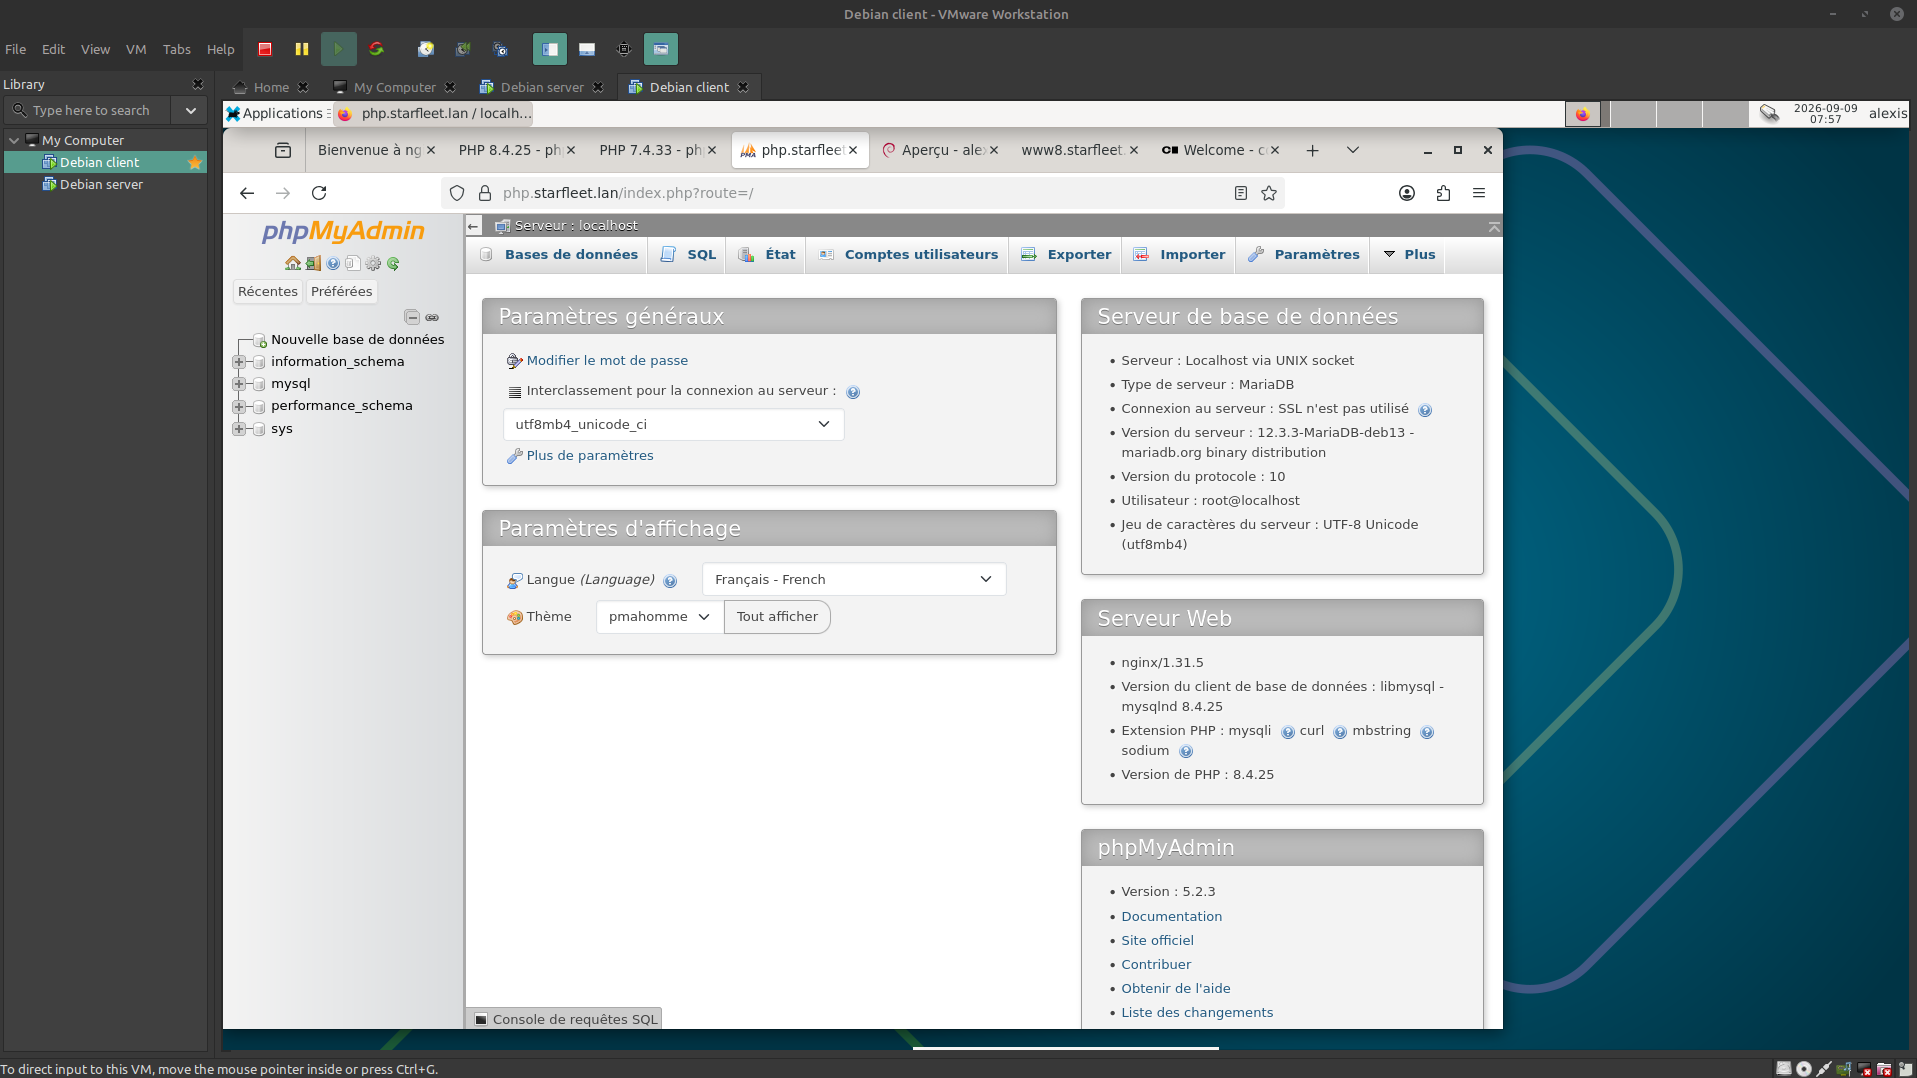
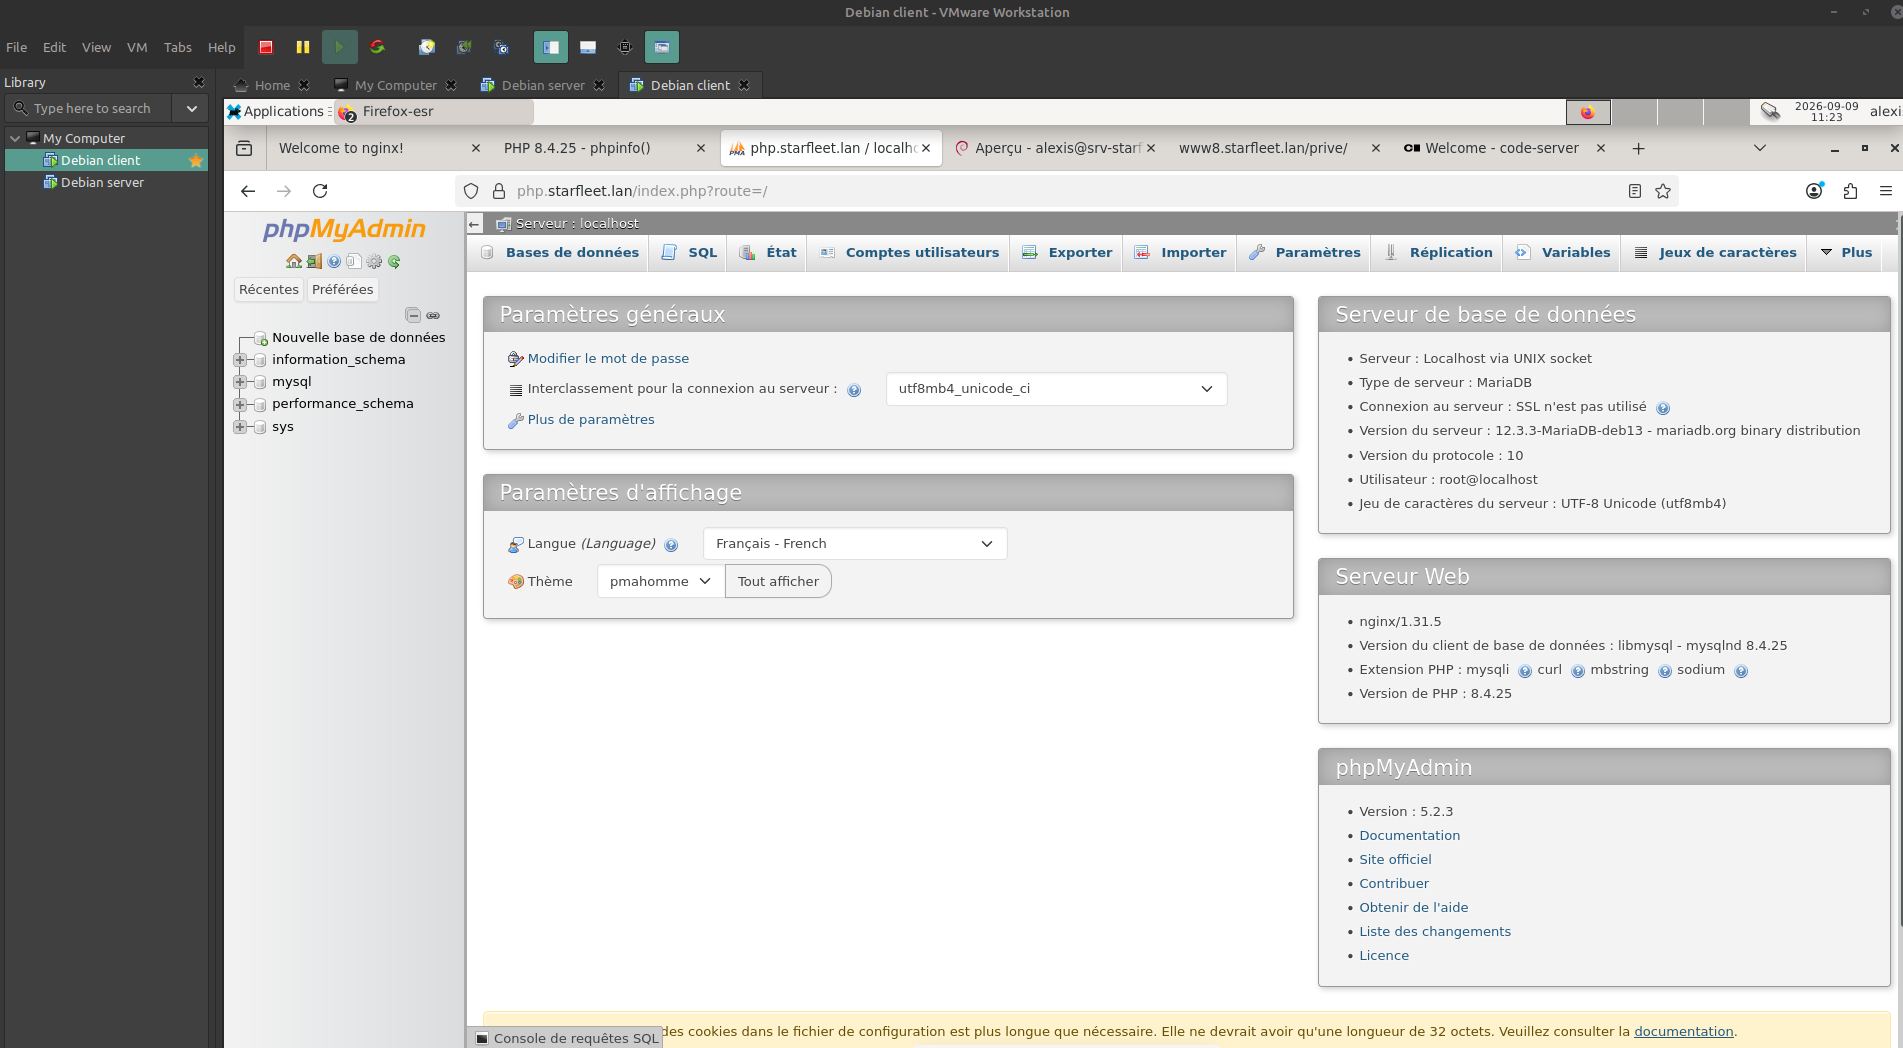
Ajout documentation illustree + configs + script

diff --git a/docs/02-installation.md b/docs/02-installation.md
@@ -29,6 +29,8 @@ VMware jusqu'aux services. Toutes les commandes serveur sont exécutées en
 - Tasksel serveur : décocher l'environnement de bureau **et** « serveur web » (Apache), ne garder que **SSH** + **utilitaires usuels**.
 - Tasksel client : cocher **Xfce** + SSH.
 
+![Conformité : aucun compte sudo](images/no-sudo.png)
+
 ---
 
 ## 2. Configuration réseau du serveur
@@ -71,6 +73,8 @@ echo "nameserver 127.0.0.1" > /etc/resolv.conf
 chattr +i /etc/resolv.conf     # empeche l'ecrasement au reboot
 ```
 
+![Interfaces réseau du serveur](images/reseau-interfaces.png)
+
 ---
 
 ## 3. DNS (bind9)
@@ -96,6 +100,8 @@ systemctl restart named
 
 Tester : `dig @10.0.0.1 www8.starfleet.lan +short` doit renvoyer `10.0.0.1`.
 
+![Résolution DNS directe et inverse](images/dns.png)
+
 ---
 
 ## 4. DHCP (isc-dhcp-server)
@@ -111,6 +117,8 @@ apt install -y isc-dhcp-server
 systemctl restart isc-dhcp-server
 ```
 
+![Le client reçoit son bail DHCP automatiquement](images/dhcp-client.png)
+
 ---
 
 ## 5. Pare-feu (nftables)
@@ -124,6 +132,8 @@ systemctl enable --now nftables
 
 > Toujours garder une console VMware ouverte lors du passage en `policy drop`,
 > et s'assurer que la règle SSH (port 22) est présente avant de recharger.
+
+![Règles nftables — politique drop + NAT](images/pare-feu.png)
 
 ---
 
@@ -156,6 +166,12 @@ chmod 600 /etc/ssl/starfleet/*.key
 > Importer `starfleet-CA.crt` dans Firefox du client (onglet *Autorités*) pour
 > obtenir le cadenas sans avertissement.
 
+![Certificat wildcard avec SAN](images/pki-san.png)
+
+![Import de la CA dans Firefox](images/import-ca.png)
+
+![HTTPS avec cadenas propre](images/https-cadenas.png)
+
 ---
 
 ## 7. Base de données (MariaDB)
@@ -181,6 +197,10 @@ apt install -y \
 ```
 
 Deux sockets doivent exister : `ls -l /run/php/`
+
+![www8 en PHP 8.4](images/www8-php84.png)
+
+![www7 en PHP 7.4](images/www7-php74.png)
 
 ---
 
@@ -208,6 +228,8 @@ Déployer la dernière version depuis phpmyadmin.net dans `/var/www/phpmyadmin`,
 générer le `blowfish_secret`, créer le dossier `tmp`, puis le vhost
 `php.starfleet.lan`.
 
+![phpMyAdmin connecté](images/phpmyadmin.png)
+
 ---
 
 ## 11. FTP (vsftpd)
@@ -223,6 +245,10 @@ echo "ftpweb" > /etc/vsftpd.userlist
 Config `/etc/vsftpd.conf` : chroot, TLS obligatoire (certif partagé),
 mode passif `40000-40100`. Ouvrir les ports FTP dans nftables.
 
+![FTPS — certificat TLS partagé (même certif que le web)](images/ftp-filezilla-arbo.png)
+
+![FTPS — utilisateur chrooté sur /var/www](images/ftp-arborescence.png)
+
 ---
 
 ## 12. Annuaire LDAP (OpenLDAP)
@@ -234,6 +260,8 @@ dpkg-reconfigure slapd      # domaine : starfleet.lan
 
 Créer l'OU `people` et les utilisateurs via des fichiers LDIF (`ldapadd`).
 Chaque entrée LDIF doit être séparée par une **ligne vide**.
+
+![Les utilisateurs de l'annuaire LDAP](images/ldap-users.png)
 
 ---
 
@@ -247,6 +275,8 @@ wget https://raw.githubusercontent.com/nginxinc/nginx-ldap-auth/master/nginx-lda
 
 Créer le service systemd `nginx-ldap-auth` (écoute sur `127.0.0.1:8888`),
 puis protéger une zone (`/prive/`) avec `auth_request` dans le vhost www8.
+
+![Zone web protégée par LDAP](images/ldap-zone-protegee.png)
 
 ---
 
@@ -263,6 +293,10 @@ systemctl enable --now code-server@alexis
 
 Les deux sont exposés via des vhosts Nginx en reverse proxy (WebSocket activé).
 
+![Cockpit — administration système](images/cockpit.png)
+
+![code-server — VS Code dans le navigateur](images/vscore.png)
+
 ---
 
 ## 15. Sauvegarde automatisée
@@ -273,3 +307,7 @@ et planifier via cron :
 ```
 0 2 * * * /opt/backup/backup-config.sh >> /var/log/backup-starfleet.log 2>&1
 ```
+
+![Script de sauvegarde en action](images/sauvegarde-script.png)
+
+![Tâche cron planifiée](images/sauvegarde-cron.png)

diff --git a/docs/01-architecture.md b/docs/01-architecture.md
@@ -35,6 +35,12 @@ l'accès Internet, une patte LAN pour le réseau interne. Il assure le routage
 et le NAT entre les deux, si bien que le client — qui n'a qu'une patte LAN —
 accède à Internet **uniquement à travers le serveur**.
 
+![Configuration VMware du serveur — LAN Segment isolé](images/vmware-serveur.png)
+
+![Configuration VMware du client — même LAN Segment](images/vmware-client.png)
+
+![Interfaces réseau du serveur (WAN ens33 / LAN ens34)](images/reseau-interfaces.png)
+
 ---
 
 ## Choix de virtualisation
@@ -64,6 +70,8 @@ Conformité vérifiable :
 getent group sudo      # aucun membre listé
 dpkg -l sudo           # paquet absent
 ```
+
+![Conformité : aucun compte sudo](images/no-sudo.png)
 
 ### Dépôts upstream plutôt que Debian
 
@@ -97,6 +105,8 @@ Nginx aiguille ensuite chaque site vers le bon socket selon le nom d'hôte :
 Les deux versions ne se rencontrent jamais : c'est Nginx qui décide, requête
 par requête, quel interpréteur utiliser.
 
+![Cohabitation PHP 7.4 et 8.4 côte à côte](images/cohabitation-php.png)
+
 ---
 
 ## Le reverse proxy Nginx
@@ -128,6 +138,10 @@ L'usage des **SAN** (Subject Alternative Names) est indispensable : les
 navigateurs modernes ignorent le champ CN et exigent les SAN pour valider un
 certificat.
 
+![Certificat wildcard avec SAN](images/pki-san.png)
+
+![Import de la CA dans Firefox](images/import-ca.png)
+
 ---
 
 ## L'authentification LDAP côté web
@@ -147,6 +161,8 @@ répond `200` (autorisé) ou `401` (refusé). C'est le pattern moderne de
 **délégation d'authentification**, que l'on retrouve dans des solutions comme
 Authelia ou oauth2-proxy.
 
+![Zone web protégée par authentification LDAP](images/ldap-zone-protegee.png)
+
 ---
 
 ## Synthèse des flux réseau autorisés (pare-feu)
@@ -165,3 +181,5 @@ ouverts :
 
 Le NAT (masquerade) est appliqué en sortie sur l'interface WAN, et le
 forwarding LAN → WAN est autorisé pour donner Internet au client.
+
+![Règles nftables — politique drop + NAT](images/pare-feu.png)

diff --git a/README.md b/README.md
@@ -71,6 +71,8 @@ Toutes les interfaces répondent en **HTTPS**. Un vhost « catch-all » ferme la
 connexion (`return 444`) pour tout nom d'hôte non déclaré et pour les accès
 par IP directe.
 
+![Cohabitation PHP 7.4 et 8.4](docs/images/cohabitation-php.png)
+
 ---
 
 ## 🔒 Sécurité
@@ -83,6 +85,8 @@ par IP directe.
 - **FTP en TLS obligatoire**, utilisateur chrooté et sans shell de connexion (`nologin`)
 - **Authentification LDAP** pour les zones web protégées (pattern `auth_request`)
 - **Sauvegarde automatisée** de la configuration (tâche cron quotidienne + rotation)
+
+![HTTPS avec certificat local](docs/images/https-cadenas.png)
 
 ---
 
